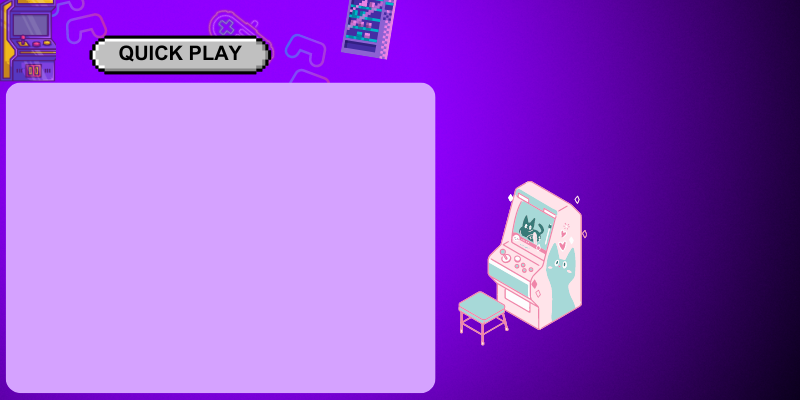
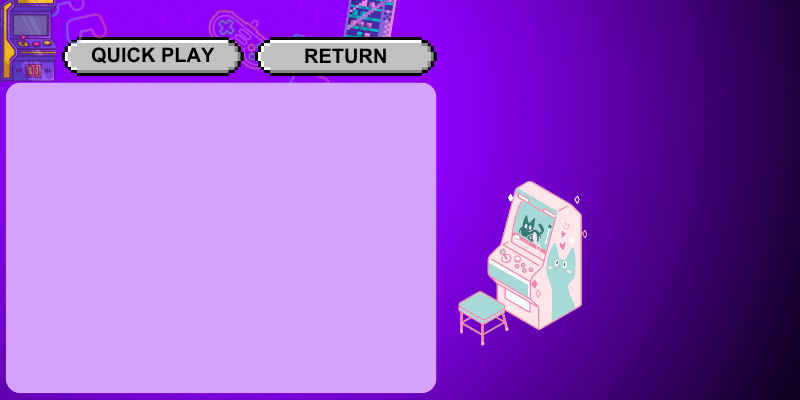
add return menu button and close form when open new form

Changed region(s): [[0.0625, 0.09, 0.5625, 0.21]]

diff --git a/Client/Waiting_Room.Designer.cs b/Client/Waiting_Room.Designer.cs
@@ -37,6 +37,7 @@
             this.label_tableindex = new System.Windows.Forms.Label();
             this.button_play = new System.Windows.Forms.Button();
             this.lbUserName = new System.Windows.Forms.Label();
+            this.btnReturn = new System.Windows.Forms.Button();
             this.SuspendLayout();
             // 
             // Connect_btn
@@ -108,10 +109,10 @@
             this.button_play.FlatAppearance.MouseOverBackColor = System.Drawing.Color.Transparent;
             this.button_play.FlatStyle = System.Windows.Forms.FlatStyle.Flat;
             this.button_play.ForeColor = System.Drawing.Color.Transparent;
-            this.button_play.Location = new System.Drawing.Point(95, 37);
+            this.button_play.Location = new System.Drawing.Point(70, 35);
             this.button_play.Margin = new System.Windows.Forms.Padding(2);
             this.button_play.Name = "button_play";
-            this.button_play.Size = new System.Drawing.Size(164, 42);
+            this.button_play.Size = new System.Drawing.Size(164, 38);
             this.button_play.TabIndex = 12;
             this.button_play.UseVisualStyleBackColor = false;
             this.button_play.Click += new System.EventHandler(this.button_play_Click);
@@ -122,11 +123,27 @@
             this.lbUserName.BackColor = System.Drawing.Color.Transparent;
             this.lbUserName.Font = new System.Drawing.Font("Arial", 15F, System.Drawing.FontStyle.Bold, System.Drawing.GraphicsUnit.Point, ((byte)(0)));
             this.lbUserName.ForeColor = System.Drawing.Color.White;
-            this.lbUserName.Location = new System.Drawing.Point(95, 9);
+            this.lbUserName.Location = new System.Drawing.Point(69, 8);
             this.lbUserName.Name = "lbUserName";
             this.lbUserName.Size = new System.Drawing.Size(126, 24);
             this.lbUserName.TabIndex = 3;
             this.lbUserName.Text = "WELCOME, ";
+            // 
+            // btnReturn
+            // 
+            this.btnReturn.BackColor = System.Drawing.Color.Transparent;
+            this.btnReturn.FlatAppearance.BorderSize = 0;
+            this.btnReturn.FlatAppearance.MouseDownBackColor = System.Drawing.Color.Transparent;
+            this.btnReturn.FlatAppearance.MouseOverBackColor = System.Drawing.Color.Transparent;
+            this.btnReturn.FlatStyle = System.Windows.Forms.FlatStyle.Flat;
+            this.btnReturn.ForeColor = System.Drawing.Color.Transparent;
+            this.btnReturn.Location = new System.Drawing.Point(267, 35);
+            this.btnReturn.Name = "btnReturn";
+            this.btnReturn.Size = new System.Drawing.Size(162, 38);
+            this.btnReturn.TabIndex = 0;
+            this.btnReturn.TabStop = false;
+            this.btnReturn.UseVisualStyleBackColor = false;
+            this.btnReturn.Click += new System.EventHandler(this.btnReturn_Click);
             // 
             // Waiting_Room
             // 
@@ -135,6 +152,7 @@
             this.BackColor = System.Drawing.SystemColors.Control;
             this.BackgroundImage = global::Client.Properties.Resources.WaitingRoom;
             this.ClientSize = new System.Drawing.Size(445, 399);
+            this.Controls.Add(this.btnReturn);
             this.Controls.Add(this.panel1);
             this.Controls.Add(this.button_play);
             this.Controls.Add(this.label_tableindex);
@@ -163,6 +181,7 @@
         private System.Windows.Forms.Label label_tableindex;
         private System.Windows.Forms.Button button_play;
         private System.Windows.Forms.Label lbUserName;
+        private System.Windows.Forms.Button btnReturn;
     }
 }
 

diff --git a/Client/Waiting_Room.cs b/Client/Waiting_Room.cs
@@ -361,9 +361,11 @@ namespace Client
                     service.SendToServer(string.Format("SitDown,{0},{1}", i, j));
                     room = new Playing_Room(i, j, sw);
                     room.Text = "Table " + (i + 1);
-                    room.Show();
                     button_play.Enabled = false;
                     Complete_create_game_room = true;
+                    Hide();
+                    room.Show();
+                    room.FormClosed += (s, args) => Show();
                 }
 
             }
@@ -418,6 +420,11 @@ namespace Client
             }
             // if full, leave a messagebox
             MessageBox.Show("Không tìm được bàn phù hợp", "", MessageBoxButtons.OK, MessageBoxIcon.Information);
+        }
+
+        private void btnReturn_Click(object sender, EventArgs e)
+        {
+            this.Close();
         }
     }
 }
